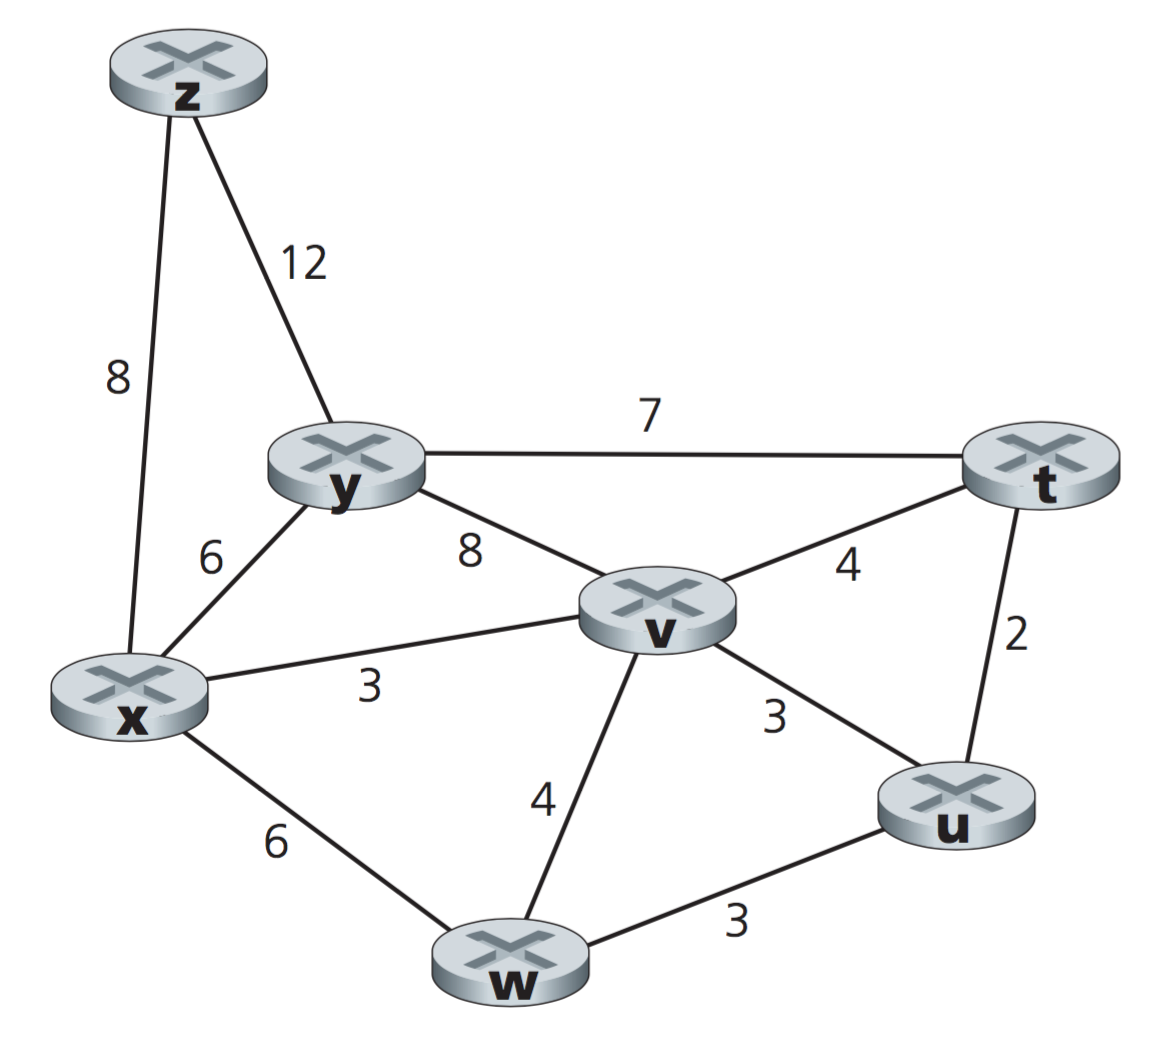
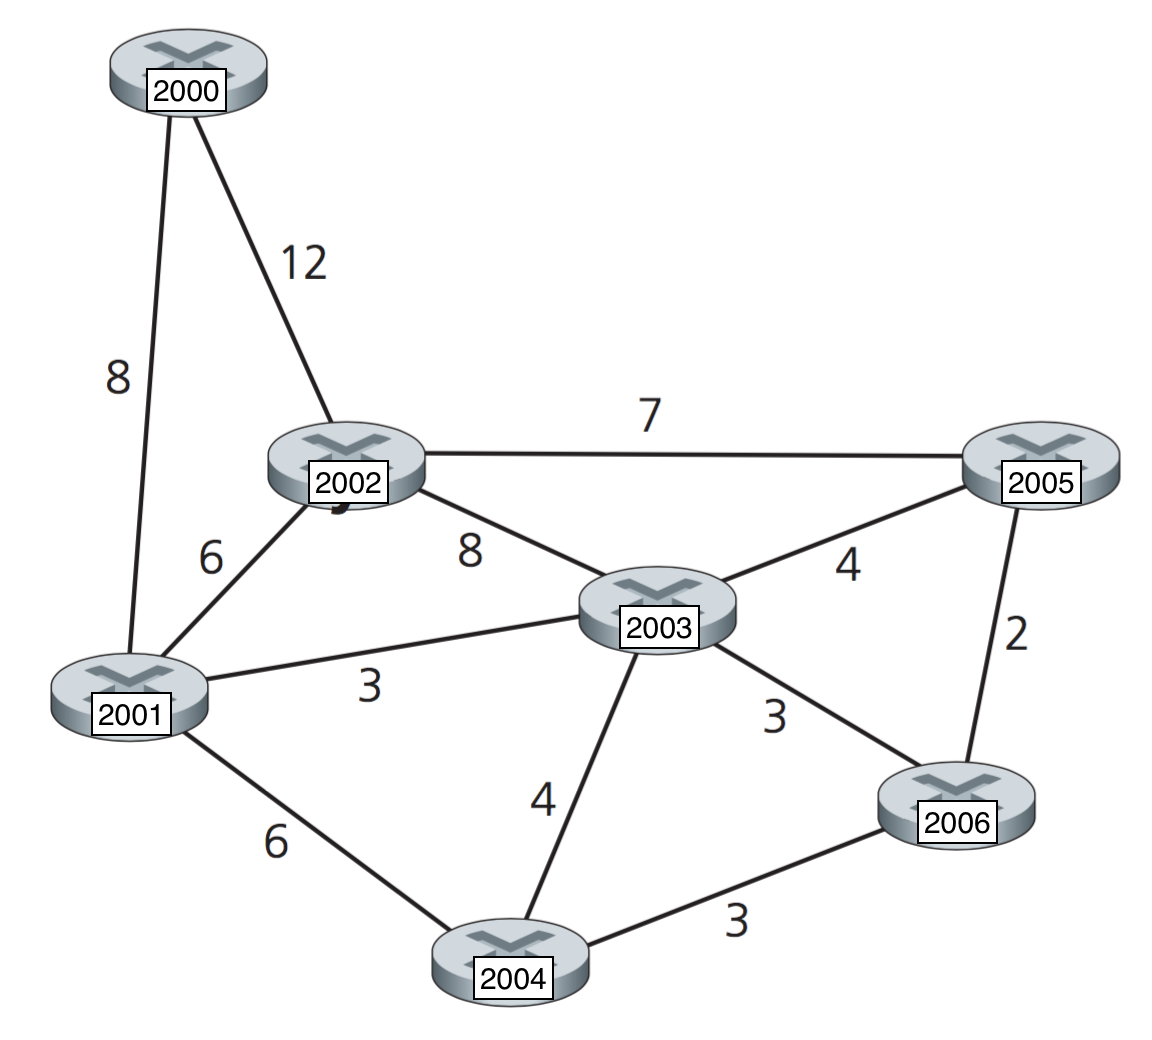
Update docs

diff --git a/README.md b/README.md
@@ -4,18 +4,227 @@ A simple RIP-like protocol implemented in python.
 
 ## Packet format
 
-Hello, world
+Each packet contains comma-separated tuples of the form
+
+    <host>:<port>:<hops>
+
+The first of these tuples identifies the sender of the packet.
 
 ## Sample Input
 
+The following network topology was constructed:
+
 ![Sample Network](/network.png)
 
-z 2000
-x 2001
-y 2002
-v 2003
-w 2004
-t 2005
-u 2006
+Each node is named after its receiving port number. An instance of the router
+program was run for each node in the network. All instances were run on the
+same host. Below is the output of each program.
 
-- output of your nodes
+### 2000
+
+    Node 209.2.218.149:2000 @ 07:12:35
+    host                port                distance            interface
+    209.2.218.149       2002                12                  2
+    209.2.218.149       2001                8                   1
+    Node 209.2.218.149:2000 @ 07:12:35
+    host                port                distance            interface
+    209.2.218.149       2002                12                  2
+    209.2.218.149       2001                8                   1
+    209.2.218.149       2004                14                  1
+    209.2.218.149       2003                11                  1
+    Node 209.2.218.149:2000 @ 07:12:36
+    host                port                distance            interface
+    209.2.218.149       2002                12                  2
+    209.2.218.149       2003                11                  1
+    209.2.218.149       2001                8                   1
+    209.2.218.149       2006                21                  2
+    209.2.218.149       2004                14                  1
+    209.2.218.149       2005                19                  2
+    Node 209.2.218.149:2000 @ 07:12:36
+    host                port                distance            interface
+    209.2.218.149       2002                12                  2
+    209.2.218.149       2003                11                  1
+    209.2.218.149       2001                8                   1
+    209.2.218.149       2006                14                  1
+    209.2.218.149       2004                14                  1
+    209.2.218.149       2005                15                  1
+
+### 2001
+
+    Node 209.2.218.149:2001 @ 07:12:35
+    host                port                distance            interface
+    209.2.218.149       2000                8                   1
+    209.2.218.149       2002                6                   2
+    209.2.218.149       2004                6                   4
+    209.2.218.149       2003                3                   3
+    Node 209.2.218.149:2001 @ 07:12:36
+    host                port                distance            interface
+    209.2.218.149       2002                6                   2
+    209.2.218.149       2003                3                   3
+    209.2.218.149       2000                8                   1
+    209.2.218.149       2006                9                   4
+    209.2.218.149       2004                6                   4
+    209.2.218.149       2005                11                  4
+    Node 209.2.218.149:2001 @ 07:12:36
+    host                port                distance            interface
+    209.2.218.149       2002                6                   2
+    209.2.218.149       2003                3                   3
+    209.2.218.149       2000                8                   1
+    209.2.218.149       2006                6                   3
+    209.2.218.149       2004                6                   4
+    209.2.218.149       2005                7                   3
+
+### 2002
+
+    Node 209.2.218.149:2002 @ 07:12:35
+    host                port                distance            interface
+    209.2.218.149       2000                12                  1
+    209.2.218.149       2001                6                   2
+    209.2.218.149       2003                8                   4
+    209.2.218.149       2005                7                   3
+    Node 209.2.218.149:2002 @ 07:12:35
+    host                port                distance            interface
+    209.2.218.149       2003                8                   4
+    209.2.218.149       2000                12                  1
+    209.2.218.149       2001                6                   2
+    209.2.218.149       2006                11                  4
+    209.2.218.149       2004                12                  4
+    209.2.218.149       2005                7                   3
+    Node 209.2.218.149:2002 @ 07:12:36
+    host                port                distance            interface
+    209.2.218.149       2003                8                   4
+    209.2.218.149       2000                12                  1
+    209.2.218.149       2001                6                   2
+    209.2.218.149       2006                9                   3
+    209.2.218.149       2004                12                  4
+    209.2.218.149       2005                7                   3
+
+### 2003
+
+    Node 209.2.218.149:2003 @ 07:12:35
+    host                port                distance            interface
+    209.2.218.149       2002                8                   2
+    209.2.218.149       2001                3                   1
+    209.2.218.149       2004                4                   4
+    209.2.218.149       2006                3                   5
+    209.2.218.149       2005                4                   3
+    Node 209.2.218.149:2003 @ 07:12:35
+    host                port                distance            interface
+    209.2.218.149       2002                8                   2
+    209.2.218.149       2000                20                  2
+    209.2.218.149       2001                3                   1
+    209.2.218.149       2006                3                   5
+    209.2.218.149       2004                4                   4
+    209.2.218.149       2005                4                   3
+    Node 209.2.218.149:2003 @ 07:12:35
+    host                port                distance            interface
+    209.2.218.149       2002                8                   2
+    209.2.218.149       2000                11                  1
+    209.2.218.149       2001                3                   1
+    209.2.218.149       2006                3                   5
+    209.2.218.149       2004                4                   4
+    209.2.218.149       2005                4                   3
+
+### 2004
+
+    Node 209.2.218.149:2004 @ 07:12:35
+    host                port                distance            interface
+    209.2.218.149       2001                6                   1
+    209.2.218.149       2003                4                   2
+    209.2.218.149       2006                3                   3
+    Node 209.2.218.149:2004 @ 07:12:35
+    host                port                distance            interface
+    209.2.218.149       2001                6                   1
+    209.2.218.149       2003                4                   2
+    209.2.218.149       2006                3                   3
+    209.2.218.149       2005                5                   3
+    Node 209.2.218.149:2004 @ 07:12:35
+    host                port                distance            interface
+    209.2.218.149       2002                12                  2
+    209.2.218.149       2001                6                   1
+    209.2.218.149       2003                4                   2
+    209.2.218.149       2006                3                   3
+    209.2.218.149       2005                5                   3
+    Node 209.2.218.149:2004 @ 07:12:35
+    host                port                distance            interface
+    209.2.218.149       2002                12                  2
+    209.2.218.149       2003                4                   2
+    209.2.218.149       2000                14                  1
+    209.2.218.149       2001                6                   1
+    209.2.218.149       2006                3                   3
+    209.2.218.149       2005                5                   3
+
+### 2005
+
+    Node 209.2.218.149:2005 @ 07:12:35
+    host                port                distance            interface
+    209.2.218.149       2002                7                   1
+    209.2.218.149       2003                4                   2
+    209.2.218.149       2006                2                   3
+    Node 209.2.218.149:2005 @ 07:12:35
+    host                port                distance            interface
+    209.2.218.149       2002                7                   1
+    209.2.218.149       2004                5                   3
+    209.2.218.149       2003                4                   2
+    209.2.218.149       2006                2                   3
+    Node 209.2.218.149:2005 @ 07:12:35
+    host                port                distance            interface
+    209.2.218.149       2002                7                   1
+    209.2.218.149       2003                4                   2
+    209.2.218.149       2000                19                  1
+    209.2.218.149       2001                13                  1
+    209.2.218.149       2006                2                   3
+    209.2.218.149       2004                5                   3
+    Node 209.2.218.149:2005 @ 07:12:35
+    host                port                distance            interface
+    209.2.218.149       2002                7                   1
+    209.2.218.149       2003                4                   2
+    209.2.218.149       2000                19                  1
+    209.2.218.149       2001                7                   2
+    209.2.218.149       2006                2                   3
+    209.2.218.149       2004                5                   3
+    Node 209.2.218.149:2005 @ 07:12:36
+    host                port                distance            interface
+    209.2.218.149       2002                7                   1
+    209.2.218.149       2003                4                   2
+    209.2.218.149       2000                15                  2
+    209.2.218.149       2001                7                   2
+    209.2.218.149       2006                2                   3
+    209.2.218.149       2004                5                   3
+
+### 2006
+
+    Node 209.2.218.149:2006 @ 07:12:35
+    host                port                distance            interface
+    209.2.218.149       2004                3                   2
+    209.2.218.149       2003                3                   1
+    209.2.218.149       2005                2                   3
+    Node 209.2.218.149:2006 @ 07:12:35
+    host                port                distance            interface
+    209.2.218.149       2002                9                   3
+    209.2.218.149       2004                3                   2
+    209.2.218.149       2003                3                   1
+    209.2.218.149       2005                2                   3
+    Node 209.2.218.149:2006 @ 07:12:35
+    host                port                distance            interface
+    209.2.218.149       2002                9                   3
+    209.2.218.149       2001                6                   1
+    209.2.218.149       2004                3                   2
+    209.2.218.149       2003                3                   1
+    209.2.218.149       2005                2                   3
+    Node 209.2.218.149:2006 @ 07:12:36
+    host                port                distance            interface
+    209.2.218.149       2002                9                   3
+    209.2.218.149       2003                3                   1
+    209.2.218.149       2000                17                  2
+    209.2.218.149       2001                6                   1
+    209.2.218.149       2004                3                   2
+    209.2.218.149       2005                2                   3
+    Node 209.2.218.149:2006 @ 07:12:36
+    host                port                distance            interface
+    209.2.218.149       2002                9                   3
+    209.2.218.149       2003                3                   1
+    209.2.218.149       2000                14                  1
+    209.2.218.149       2001                6                   1
+    209.2.218.149       2004                3                   2
+    209.2.218.149       2005                2                   3
